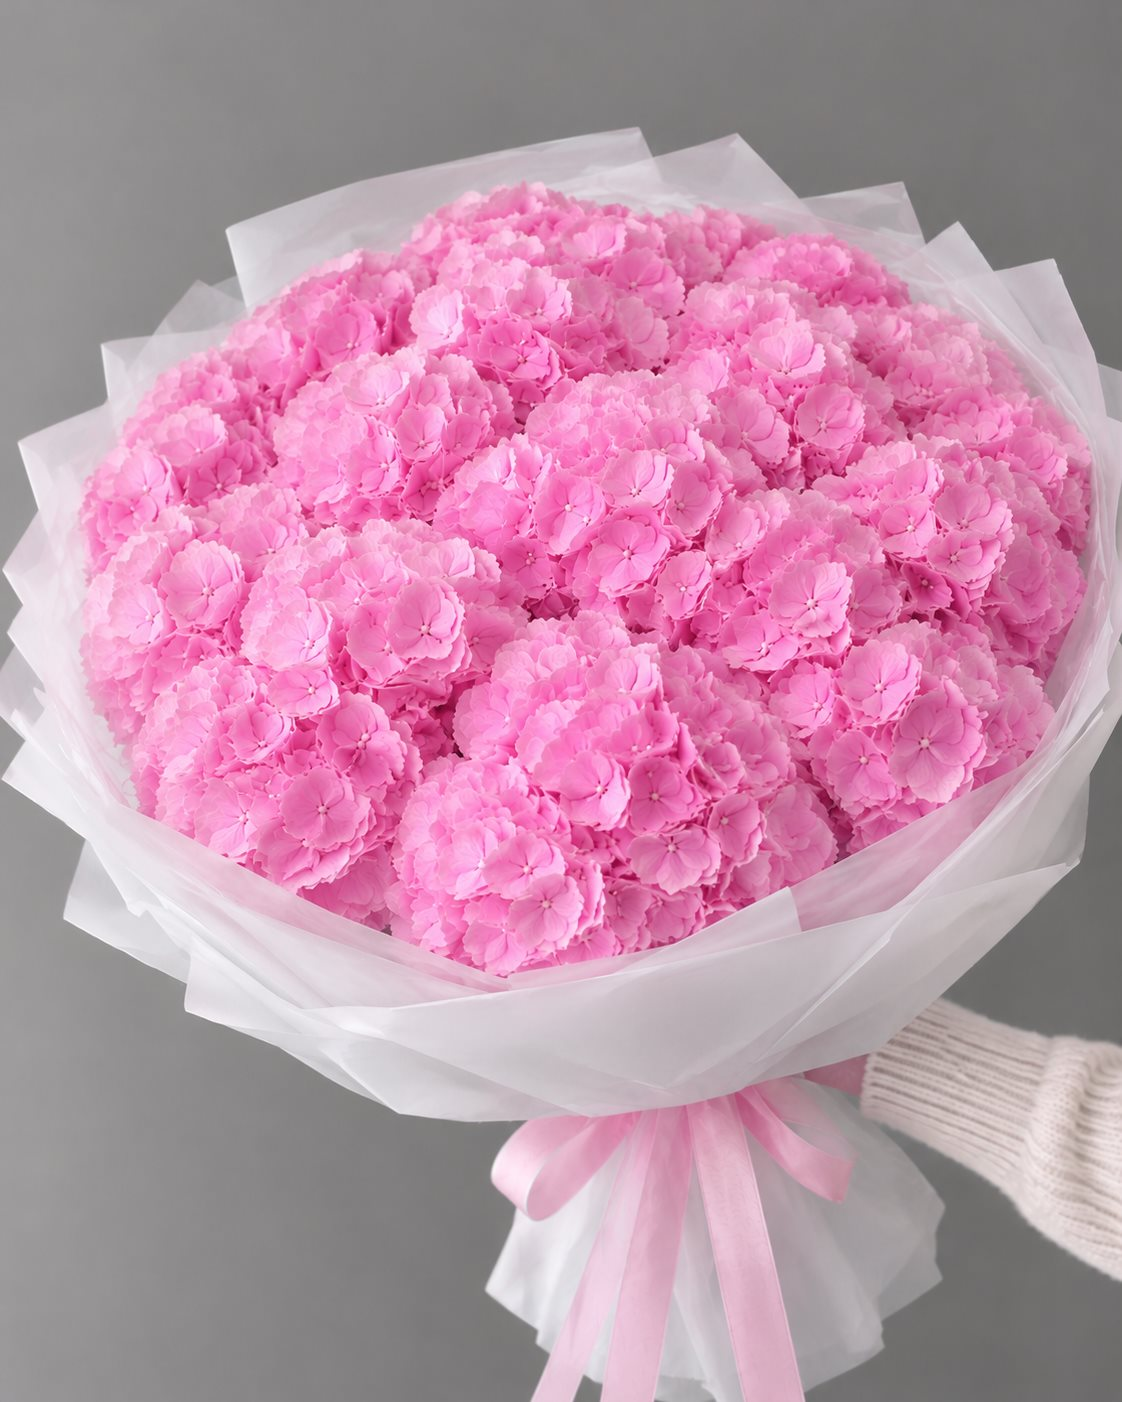
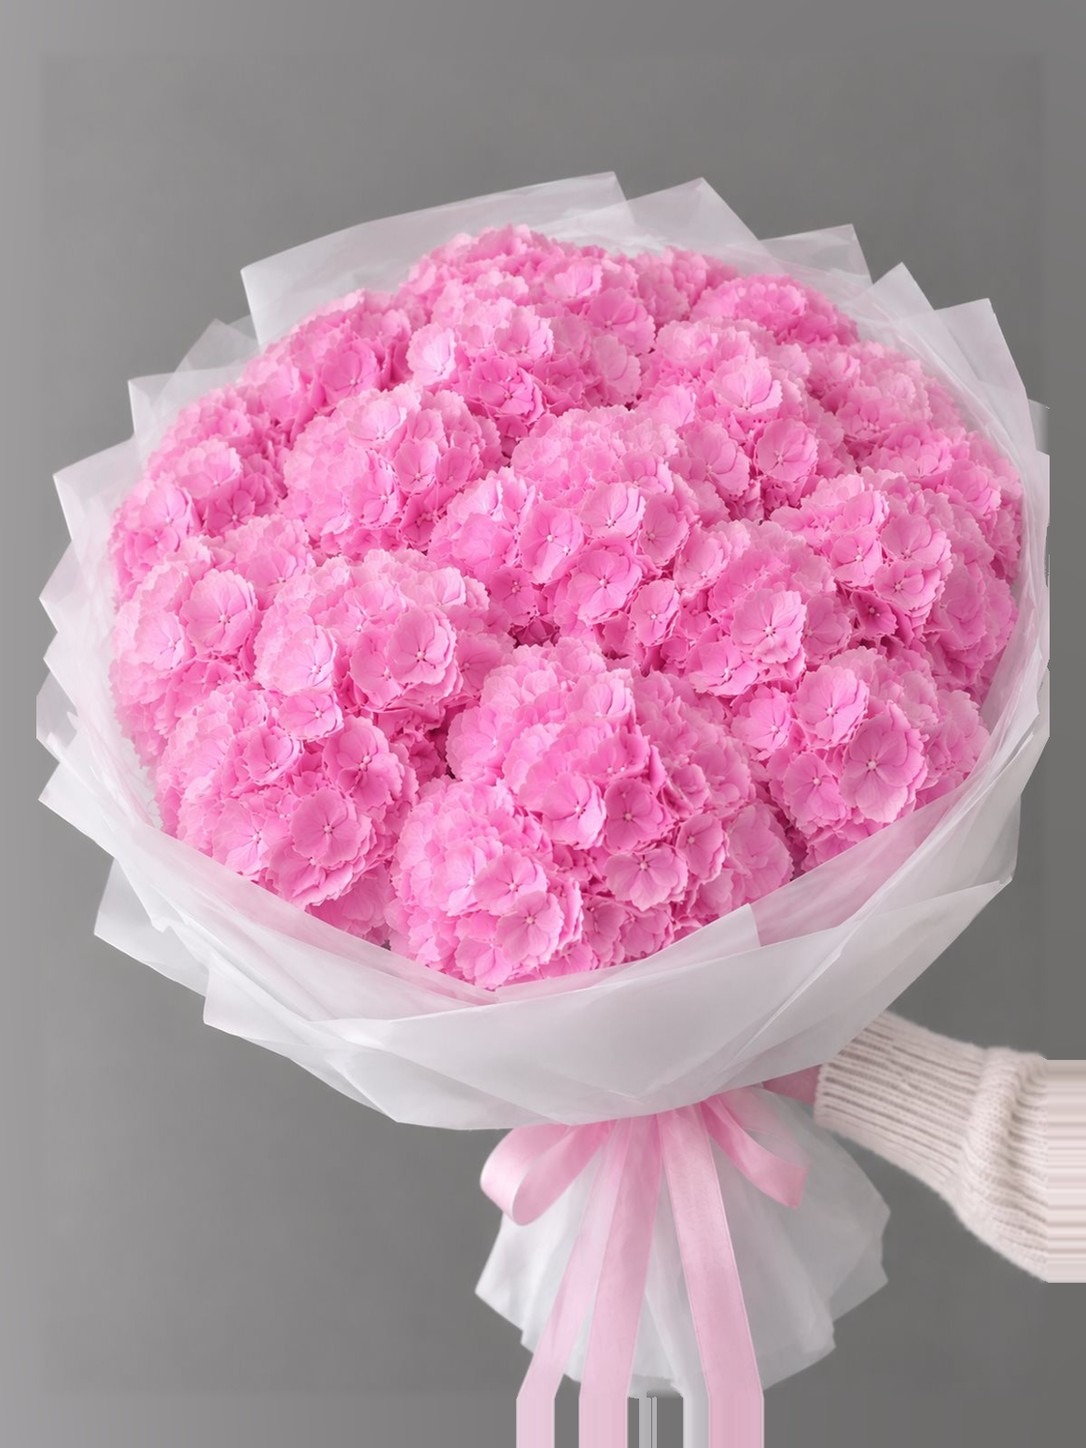
Фото букета цілком: рамка 3:4 на сторінках букета й «Змінити букет», запас по краях у великих фото (червоні L без упаковки, гортензії), домальовані зрізані троянди

diff --git a/src/app/pages/product-details/product-details.scss b/src/app/pages/product-details/product-details.scss
@@ -582,8 +582,8 @@
 
   /* фото цілком вміщується в перший екран: висота = вікно мінус шапка й хлібні крихти */
   .stage.stage--photo {
-    width: min(100%, calc((100svh - var(--header-h) - 70px) * 0.9));
-    aspect-ratio: 9 / 10;
+    width: min(100%, calc((100svh - var(--header-h) - 70px) * 0.75));
+    aspect-ratio: 3 / 4;
     /* фото трохи правіше від лівого краю колонки */
     margin-left: clamp(24px, 3.4vw, 64px);
   }

diff --git a/src/app/pages/bouquet-customizer/bouquet-customizer.scss b/src/app/pages/bouquet-customizer/bouquet-customizer.scss
@@ -530,12 +530,12 @@
     }
 
     .stage {
-      width: min(100%, calc((100svh - var(--header-h) - 70px) * 0.9));
+      width: min(100%, calc((100svh - var(--header-h) - 70px) * 0.75));
       margin-inline: 0;
     }
 
     .stage.stage--photo {
-      aspect-ratio: 9 / 10;
+      aspect-ratio: 3 / 4;
     }
 
     .fixed-note {
